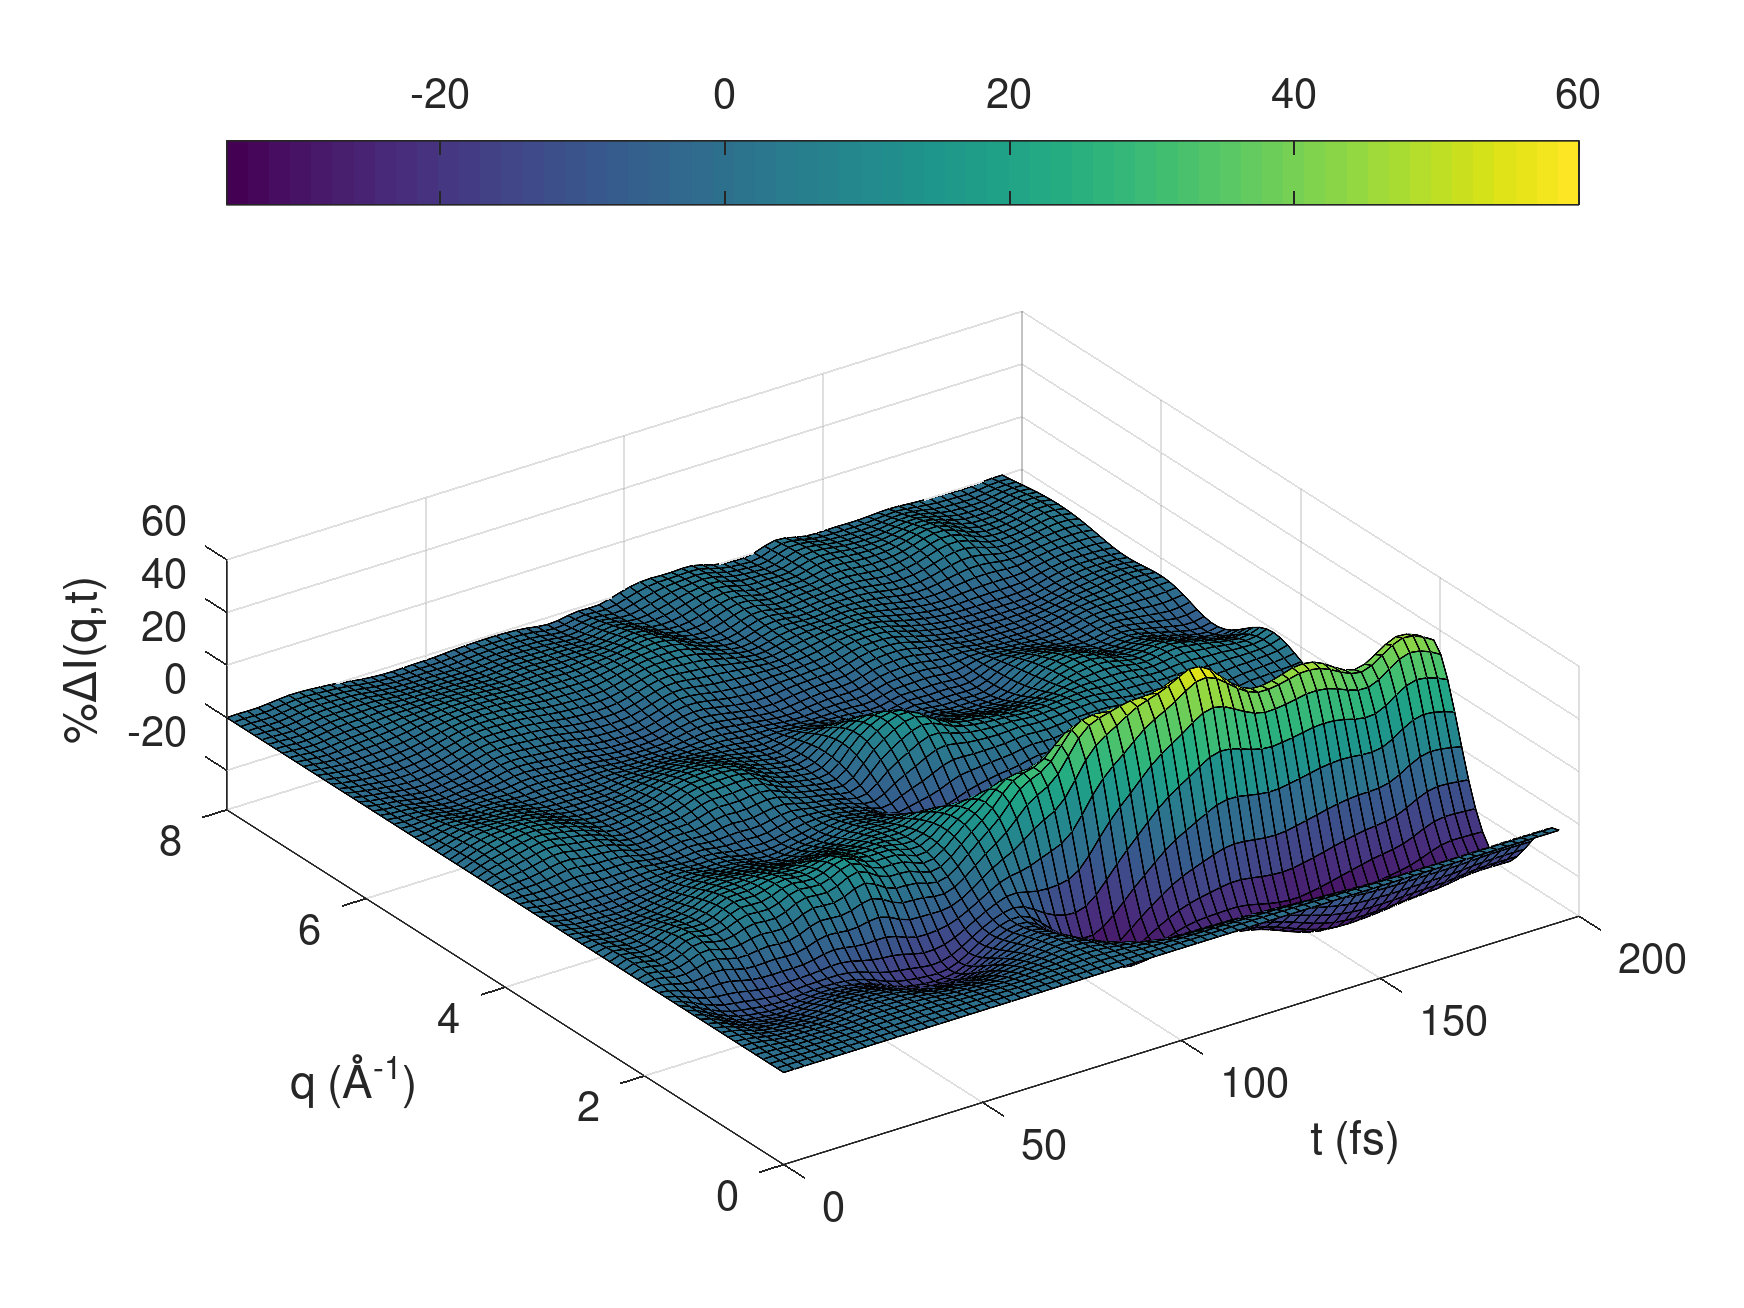
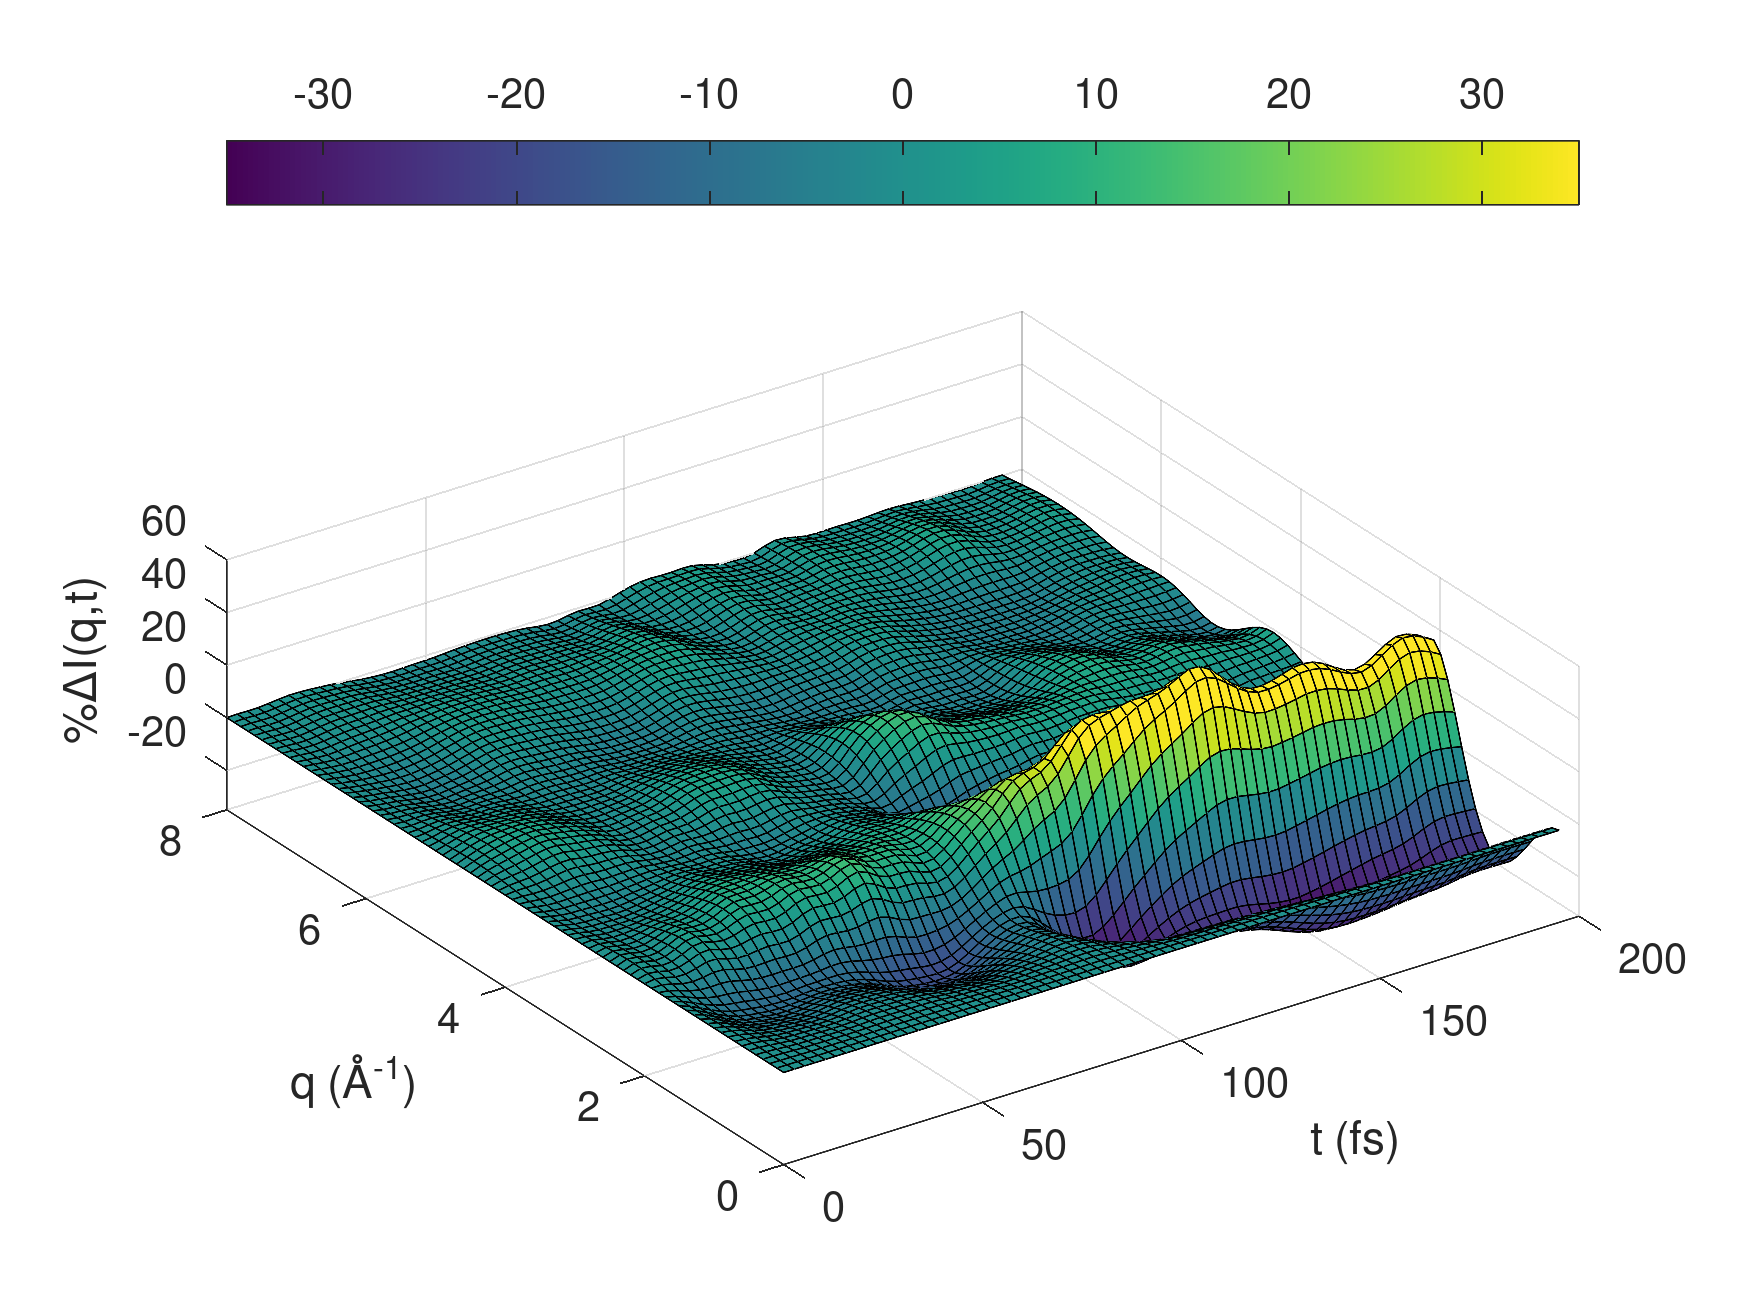
sampling, sampling_ratio, tuning_ratio

diff --git a/modules/sa.py b/modules/sa.py
@@ -53,11 +53,14 @@ class Annealing:
         f_start=1e10,
         f_xray_start=1e10,
         predicted_start=0,
-        c_tuning=1,
+        tuning_ratio_target=1,
+        c_tuning_initial=1,
+        sampling_ratio=0.1,
     ):
         """simulated annealing minimisation to target_function"""
         ##=#=#=# DEFINITIONS #=#=#=##
         natoms = starting_xyz.shape[0]  # number of atoms
+        c_tuning = c_tuning_initial  # initialise C_tuning
         # nmodes = displacements.shape[0]  # number of displacement vectors
         # nmode_indices = len(mode_indices)
         # print((nmodes, nmode_indices))
@@ -123,6 +126,9 @@ class Annealing:
             c = 0  # count accepted steps
             mdisp = displacements
             total_bonding_contrib, total_angular_contrib, total_xray_contrib = 0, 0, 0
+            end_sampling = False  # Default: it samples first before annealing
+            tmp_bool = True
+            n_sampling_steps = int(sampling_ratio * nsteps)
             ##=#=#=# END INITIATE LOOP VARIABLES #=#=#
 
             for i in range(nsteps):
@@ -143,118 +149,124 @@ class Annealing:
                 xyz_ = xyz + summed_displacement  # save a temporary displaced xyz: xyz_
                 ##=#=#=# END DISPLACE XYZ RANDOMLY ALONG ALL DISPLACEMENT VECTORS #=#=#=##
 
-                ##=#=#=# IAM CALCULATION #=#=#=##
-                if (
-                    ewald_mode
-                ):  # x-ray signal in Ewald sphere, q = (q_radial, q_theta, q_phi)
-                    # molecular
-                    molecular = np.zeros((qlen, tlen, plen))  # total molecular factor
-                    k = 0  # begin counter
-                    for n in range(natoms - 1):
-                        for m in range(n + 1, natoms):  # j > i
-                            fnm = pre_molecular[k, :, :, :]
-                            k += 1  # count iterations
-                            xnm = xyz[n, 0] - xyz[m, 0]
-                            ynm = xyz[n, 1] - xyz[m, 1]
-                            znm = xyz[n, 2] - xyz[m, 2]
-                            molecular += (
-                                2 * fnm * np.cos((qx * xnm + qy * ynm + qz * znm))
-                            )
-                    ### end ewald_mode
-                else:  # assumed to be isotropic 1D signal
-                    molecular = np.zeros(qlen)  # total molecular factor
-                    k = 0
-                    for ii in range(natoms):
-                        for jj in range(ii + 1, natoms):  # j > i
-                            qdij = qvector * LA.norm(xyz_[ii, :] - xyz_[jj, :])
-                            molecular += 2 * pre_molecular[k, :] * np.sin(qdij) / qdij
-                            k += 1
-                iam_ = atomic_total + molecular + compton
-                ##=#=#=# END IAM CALCULATION #=#=#=##
+                if i >= n_sampling_steps and tmp_bool:
+                    tmp_bool = False
+                    end_sampling = True
+                    print(f"SAMPLING ENDED after {i} / {nsteps} steps")
+                    xyz_sampling_end = xyz_
+                if end_sampling:
+                    ##=#=#=# IAM CALCULATION #=#=#=##
+                    if (
+                        ewald_mode
+                    ):  # x-ray signal in Ewald sphere, q = (q_radial, q_theta, q_phi)
+                        # molecular
+                        molecular = np.zeros((qlen, tlen, plen))  # total molecular factor
+                        k = 0  # begin counter
+                        for n in range(natoms - 1):
+                            for m in range(n + 1, natoms):  # j > i
+                                fnm = pre_molecular[k, :, :, :]
+                                k += 1  # count iterations
+                                xnm = xyz[n, 0] - xyz[m, 0]
+                                ynm = xyz[n, 1] - xyz[m, 1]
+                                znm = xyz[n, 2] - xyz[m, 2]
+                                molecular += (
+                                    2 * fnm * np.cos((qx * xnm + qy * ynm + qz * znm))
+                                )
+                        ### end ewald_mode
+                    else:  # assumed to be isotropic 1D signal
+                        molecular = np.zeros(qlen)  # total molecular factor
+                        k = 0
+                        for ii in range(natoms):
+                            for jj in range(ii + 1, natoms):  # j > i
+                                qdij = qvector * LA.norm(xyz_[ii, :] - xyz_[jj, :])
+                                molecular += 2 * pre_molecular[k, :] * np.sin(qdij) / qdij
+                                k += 1
+                    iam_ = atomic_total + molecular + compton
+                    ##=#=#=# END IAM CALCULATION #=#=#=##
 
-                ##=#=#=# PCD & CHI2 CALCULATIONS #=#=#=##
-                if pcd_mode:
-                    predicted_function_ = 100 * (iam_ / reference_iam - 1)
-                    ### x-ray part of objective function
-                    ### TO DO: depends on ewald_mode ...
-                    xray_contrib = (
-                        np.sum((predicted_function_ - target_function) ** 2) / qlen
-                    )
-                else:
-                    predicted_function_ = iam_
-                    ### x-ray part of objective function
-                    ### TO DO: depends on ewald_mode ...
-                    if ewald_mode:
-                        n = qlen * tlen * plen
+                    ##=#=#=# PCD & DSIGNAL CALCULATIONS #=#=#=##
+                    if pcd_mode:
+                        predicted_function_ = 100 * (iam_ / reference_iam - 1)
+                        ### x-ray part of objective function
+                        ### TO DO: depends on ewald_mode ...
+                        xray_contrib = (
+                            np.sum((predicted_function_ - target_function) ** 2) / qlen
+                        )
                     else:
-                        n = qlen
-                    xray_contrib = (
-                        np.sum(
-                            (predicted_function_ - target_function) ** 2
-                            / np.abs(target_function)
+                        predicted_function_ = iam_
+                        ### x-ray part of objective function
+                        ### TO DO: depends on ewald_mode ...
+                        if ewald_mode:
+                            n = qlen * tlen * plen
+                        else:
+                            n = qlen
+                        xray_contrib = (
+                            np.sum(
+                                (predicted_function_ - target_function) ** 2
+                                / np.abs(target_function)
+                            )
+                            / n
                         )
-                        / n
-                    )
 
-                ### harmonic oscillator part of f
-                # somehow this is faster in numba than the vectorised version
-                bonding_contrib = 0
-                if bonds_bool:
-                    for iho in range(nho_indices1):
-                        r = LA.norm(
-                            xyz_[ho_indices1[0][iho], :] - xyz_[ho_indices1[1][iho], :]
-                        )
-                        bonding_contrib += bonding_factor[0] * 0.5 * (r - r0_arr1[iho]) ** 2
-                    for iho in range(nho_indices2):
-                        r = LA.norm(
-                            xyz_[ho_indices2[0][iho], :] - xyz_[ho_indices2[1][iho], :]
-                        )
-                        bonding_contrib += bonding_factor[1] * 0.5 * (r - r0_arr2[iho]) ** 2
+                    ### harmonic oscillator part of f
+                    # somehow this is faster in numba than the vectorised version
+                    bonding_contrib = 0
+                    if bonds_bool:
+                        for iho in range(nho_indices1):
+                            r = LA.norm(
+                                xyz_[ho_indices1[0][iho], :] - xyz_[ho_indices1[1][iho], :]
+                            )
+                            bonding_contrib += bonding_factor[0] * 0.5 * (r - r0_arr1[iho]) ** 2
+                        for iho in range(nho_indices2):
+                            r = LA.norm(
+                                xyz_[ho_indices2[0][iho], :] - xyz_[ho_indices2[1][iho], :]
+                            )
+                            bonding_contrib += bonding_factor[1] * 0.5 * (r - r0_arr2[iho]) ** 2
 
-                angular_contrib = 0
-                if angles_bool:
-                    for i_ang in range(len(theta0_arr1)):
-                        p0 = xyz_[angular_indices1[0][i_ang], :]
-                        p1 = xyz_[angular_indices1[1][i_ang], :]
-                        p2 = xyz_[angular_indices1[2][i_ang], :]
-                        ba = p1 - p0
-                        bc = p1 - p2
-                        cosine_theta = np.dot(ba, bc) / (
-                            np.linalg.norm(ba) * np.linalg.norm(bc)
-                        )
-                        theta = np.arccos(cosine_theta)
-                        angular_contrib += (
-                            angular_factor[0] * 0.5 * (theta - theta0_arr1[i_ang]) ** 2
-                        )
-                    for i_ang in range(len(theta0_arr2)):
-                        p0 = xyz_[angular_indices2[0][i_ang], :]
-                        p1 = xyz_[angular_indices2[1][i_ang], :]
-                        p2 = xyz_[angular_indices2[2][i_ang], :]
-                        ba = p1 - p0
-                        bc = p1 - p2
-                        cosine_theta = np.dot(ba, bc) / (
-                            np.linalg.norm(ba) * np.linalg.norm(bc)
-                        )
-                        theta = np.arccos(cosine_theta)
-                        angular_contrib += (
-                            angular_factor[1] * 0.5 * (theta - theta0_arr2[i_ang]) ** 2
-                        )
-                ### combine x-ray and bonding, angular contributions
-                f_ = xray_contrib + c_tuning * (bonding_contrib + angular_contrib)
-                ##=#=#=# END PCD & CHI2 CALCULATIONS #=#=#=##
+                    angular_contrib = 0
+                    if angles_bool:
+                        for i_ang in range(len(theta0_arr1)):
+                            p0 = xyz_[angular_indices1[0][i_ang], :]
+                            p1 = xyz_[angular_indices1[1][i_ang], :]
+                            p2 = xyz_[angular_indices1[2][i_ang], :]
+                            ba = p1 - p0
+                            bc = p1 - p2
+                            cosine_theta = np.dot(ba, bc) / (
+                                np.linalg.norm(ba) * np.linalg.norm(bc)
+                            )
+                            theta = np.arccos(cosine_theta)
+                            angular_contrib += (
+                                angular_factor[0] * 0.5 * (theta - theta0_arr1[i_ang]) ** 2
+                            )
+                        for i_ang in range(len(theta0_arr2)):
+                            p0 = xyz_[angular_indices2[0][i_ang], :]
+                            p1 = xyz_[angular_indices2[1][i_ang], :]
+                            p2 = xyz_[angular_indices2[2][i_ang], :]
+                            ba = p1 - p0
+                            bc = p1 - p2
+                            cosine_theta = np.dot(ba, bc) / (
+                                np.linalg.norm(ba) * np.linalg.norm(bc)
+                            )
+                            theta = np.arccos(cosine_theta)
+                            angular_contrib += (
+                                angular_factor[1] * 0.5 * (theta - theta0_arr2[i_ang]) ** 2
+                            )
+                    ### combine x-ray and bonding, angular contributions
+                    f_ = xray_contrib + c_tuning * (bonding_contrib + angular_contrib)
+                    ##=#=#=# END PCD & DSIGNAL CALCULATIONS #=#=#=##
 
-                ##=#=#=# ACCEPTANCE CRITERIA #=#=#=##
-                if f_ / f < 0.999 or temp > random():
-                    c += 1  # count acceptances
-                    f, xyz = f_, xyz_  # update f and xyz
-                    if f < f_best:
-                        # store values corresponding to f_best
-                        f_best, xyz_best, predicted_best = f, xyz, predicted_function_
-                        f_xray_best = xray_contrib
-                    total_bonding_contrib += c_tuning * bonding_contrib
-                    total_angular_contrib += c_tuning * angular_contrib
-                    total_xray_contrib += xray_contrib
-                ##=#=#=# END ACCEPTANCE CRITERIA #=#=#=##
+                    ##=#=#=# ACCEPTANCE CRITERIA #=#=#=##
+                    if f_ / f < 0.999 or temp > random():
+                        c += 1  # count acceptances
+                        f, xyz = f_, xyz_  # update f and xyz
+                        if f < f_best:
+                            # store values corresponding to f_best
+                            f_best, xyz_best, predicted_best = f, xyz, predicted_function_
+                            f_xray_best = xray_contrib
+                        total_bonding_contrib += c_tuning * bonding_contrib
+                        total_angular_contrib += c_tuning * angular_contrib
+                        total_xray_contrib += xray_contrib
+                    ##=#=#=# END ACCEPTANCE CRITERIA #=#=#=##
             # print ratio of contributions to f
             total_contrib = (
                 total_xray_contrib + total_bonding_contrib + total_angular_contrib
@@ -264,9 +276,7 @@ class Annealing:
                 bonding_ratio = total_bonding_contrib / total_contrib
                 angular_ratio = total_angular_contrib / total_contrib
                 # readjust c_tuning
-                tuning_ratio = 0.01
-                c_tuning_adjusted = tuning_ratio * (1 - total_xray_contrib / total_contrib )
-                # not totally sure this is working how I want...
+                c_tuning_adjusted = tuning_ratio_target * (1 - total_xray_contrib / total_contrib )
             else:
                 xray_ratio, bonding_ratio, angular_ratio = 0, 0, 0
             return (
@@ -279,6 +289,7 @@ class Annealing:
                 angular_ratio,
                 c,
                 c_tuning_adjusted,
+                xyz_sampling_end,
             )
 
         ### END run_annealing() function ###
@@ -295,6 +306,7 @@ class Annealing:
             angular_ratio,
             c,
             c_tuning_adjusted,
+            xyz_sampling_end,
         ) = run_annealing(nsteps)
         print("run_annealing() time: %3.2f s" % float(default_timer() - start))
         ###
@@ -303,7 +315,7 @@ class Annealing:
         print("angular contrib ratio: %f" % angular_ratio)
         print("Accepted / Total steps: %i/%i" % (c, nsteps))
         # end function
-        return f_best, f_xray_best, predicted_best, xyz_best, c_tuning_adjusted
+        return f_best, f_xray_best, predicted_best, xyz_best, c_tuning_adjusted, xyz_sampling_end
 
 
     def read_nm_displacements(self, fname: str, natoms: int) -> NDArray:

diff --git a/modules/wrap.py b/modules/wrap.py
@@ -233,7 +233,8 @@ class Wrapper:
         ### End Initialise some stuff ###
         #################################
         # Tuning parameter
-        c_tuning = 1
+        c_tuning = p.c_tuning_initial  # initialise C_tuning
+        print("tuning_ratio_target = %3.2f" % p.tuning_ratio_target)
         # initialise starting "best" values
         xyz_best = xyz_start
         f_best, f_xray_best = 1e10, 1e10
@@ -249,6 +250,10 @@ class Wrapper:
             f_xray_start = f_xray_best
             predicted_start = predicted_best
             ###
+            if i == 1:
+                sampling_ratio = p.sampling_ratio
+            else:
+                sampling_ratio = 0  # don't sample except for the first run
             if i < p.nrestarts - 1:  # annealing mode
                 print(f"Run {i}: SA")
                 nsteps = p.sa_nsteps
@@ -270,6 +275,7 @@ class Wrapper:
                 predicted_best,
                 xyz_best,
                 c_tuning_adjusted,
+                xyz_sampling_end,
             ) = sa.simulated_annealing_modes_ho(
                 xyz_start,
                 displacements,
@@ -299,7 +305,9 @@ class Wrapper:
                 f_start,
                 f_xray_start,
                 predicted_start,
-                c_tuning,
+                p.tuning_ratio_target,
+                p.c_tuning_initial,
+                sampling_ratio,
             )
             print("f_best (SA): %9.8f" % f_best)
             print("Updating tuning parameter...")
@@ -390,6 +398,8 @@ class Wrapper:
         print('################')
         # also write final xyz as "result.xyz"
         # m.write_xyz("tmp_/%s_result.xyz" % run_id, "result", atomlist, xyz_best)
+        # also write xyz_sampling_end
+        m.write_xyz("tmp_/xyz_sampling_end.xyz", "xyz_sampling_end", atomlist, xyz_sampling_end)
         # predicted data
         if p.ewald_mode:
             if npy_save:

diff --git a/modules/read_input.py b/modules/read_input.py
@@ -83,6 +83,15 @@ class Input_to_params:
         self.ga_angular_factor = np.array(
             data["simulated_annealing_params"]["ga_angular_factor"]
         )
+        self.tuning_ratio_target = float(
+            data["simulated_annealing_params"]["tuning_ratio_target"]
+        )
+        self.c_tuning_initial = float(
+            data["simulated_annealing_params"]["c_tuning_initial"]
+        )
+        self.sampling_ratio = float(
+            data["simulated_annealing_params"]["sampling_ratio"]
+        )
         self.non_h_modes_only = bool(
             data["simulated_annealing_params"]["non_h_modes_only_bool"]
         )  # only include "non-hydrogen" modes

diff --git a/xyz/octave_target_traj_surf_script_template.m b/xyz/octave_target_traj_surf_script_template.m
@@ -21,7 +21,7 @@ surf(t, q, pcd(1:81, :));
 xlabel('t (fs)');
 ylabel('q (Å^{-1})');
 zlabel('%ΔI(q,t)');
-caxis([-35 60]);
+caxis([-35 35]);
 zlim([-35 60]);
 %colormap hot
 colormap default

diff --git a/xyz/target_traj090/octave_surf_script.m b/xyz/target_traj090/octave_surf_script.m
@@ -21,7 +21,7 @@ surf(t, q, pcd(1:81, :));
 xlabel('t (fs)');
 ylabel('q (Å^{-1})');
 zlabel('%ΔI(q,t)');
-caxis([-35 60]);
+caxis([-35 35]);
 zlim([-35 60]);
 %colormap hot
 colormap default

diff --git a/xyz/target_traj094/octave_surf_script.m b/xyz/target_traj094/octave_surf_script.m
@@ -21,7 +21,7 @@ surf(t, q, pcd(1:81, :));
 xlabel('t (fs)');
 ylabel('q (Å^{-1})');
 zlabel('%ΔI(q,t)');
-caxis([-35 60]);
+caxis([-35 35]);
 zlim([-35 60]);
 %colormap hot
 colormap default

diff --git a/xyz/target_traj099/octave_surf_script.m b/xyz/target_traj099/octave_surf_script.m
@@ -21,7 +21,7 @@ surf(t, q, pcd(1:81, :));
 xlabel('t (fs)');
 ylabel('q (Å^{-1})');
 zlabel('%ΔI(q,t)');
-caxis([-35 60]);
+caxis([-35 35]);
 zlim([-35 60]);
 %colormap hot
 colormap default
